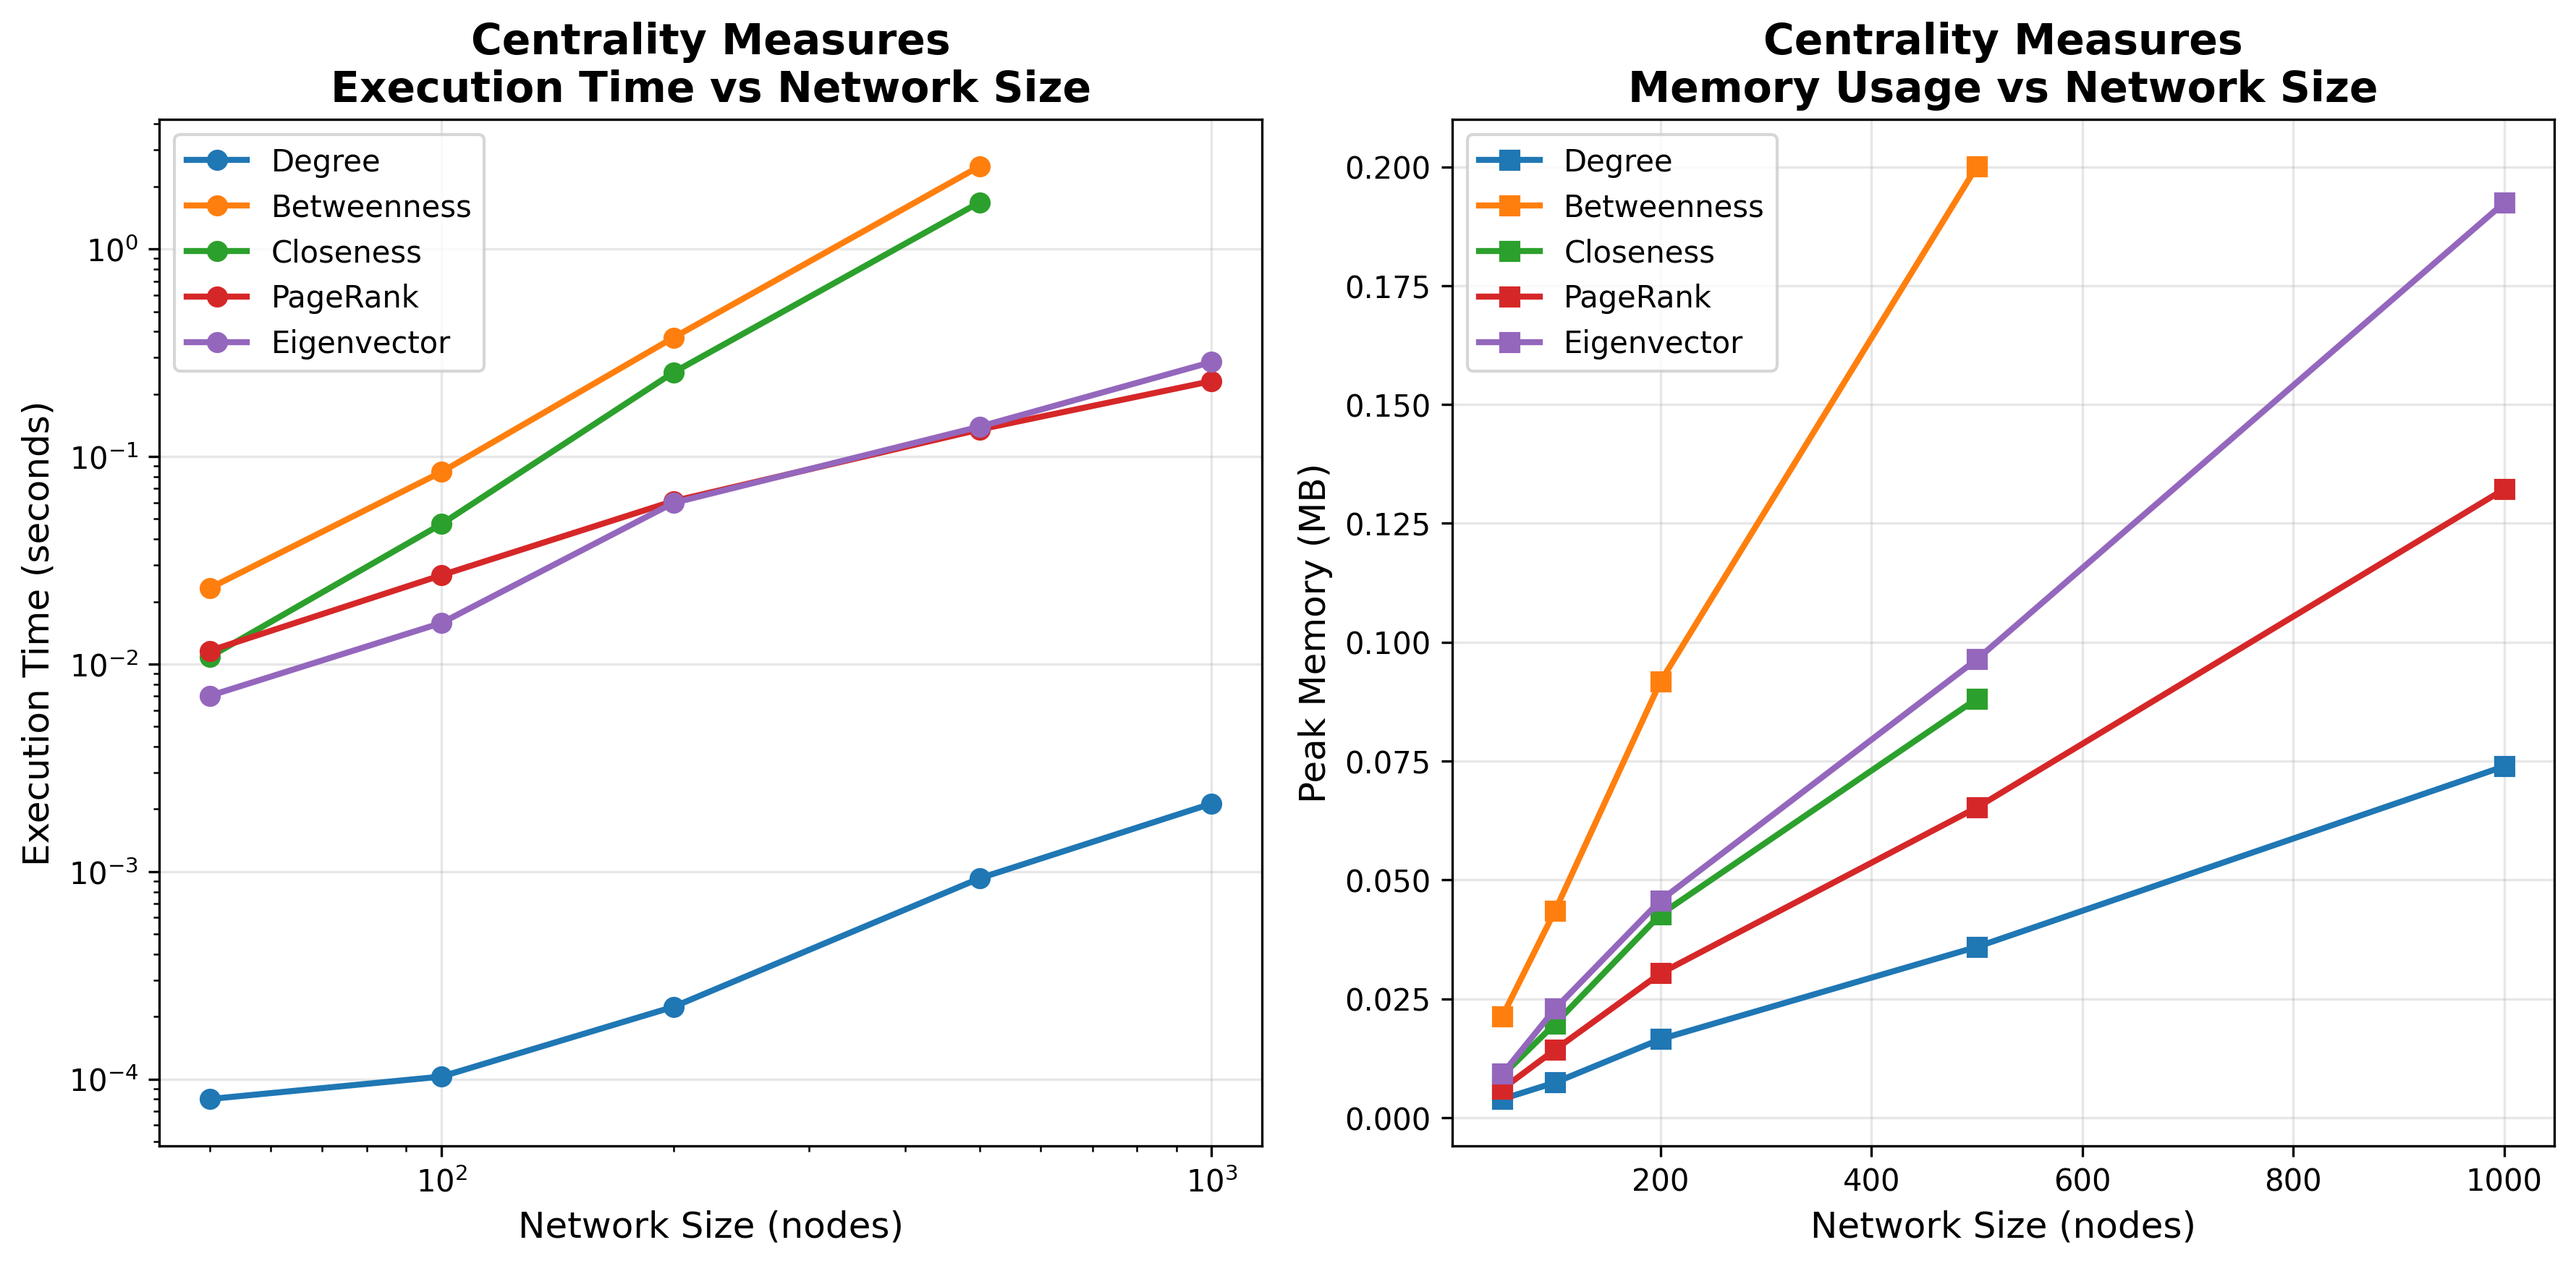
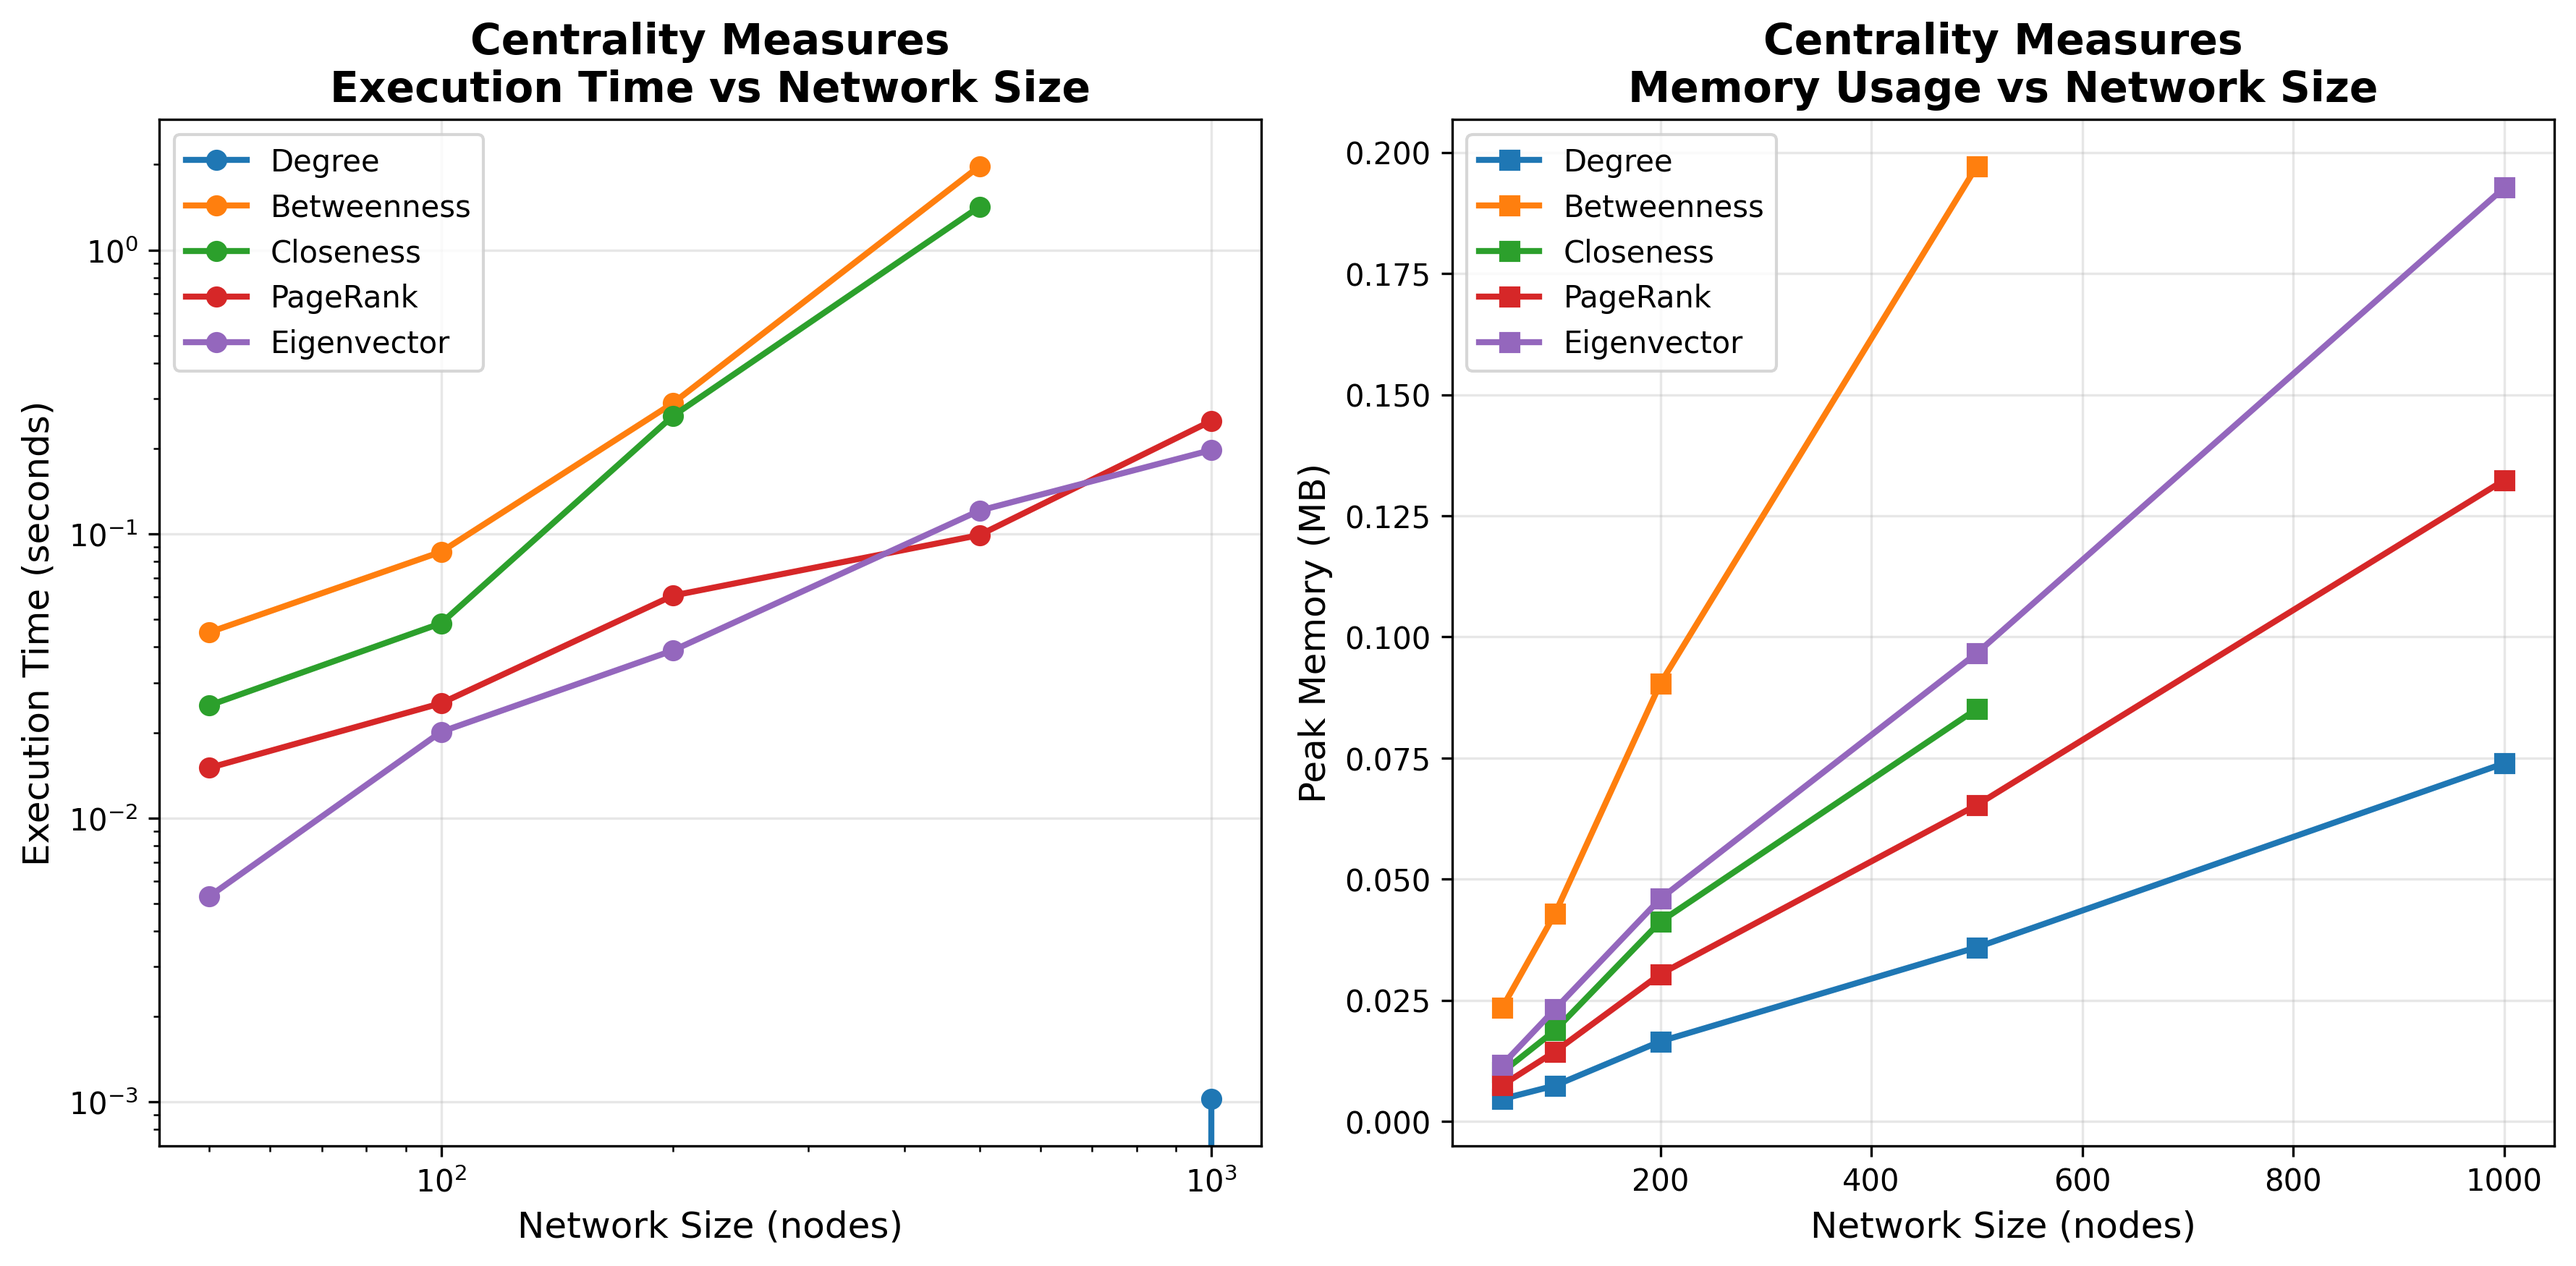
:bench

diff --git a/main.py b/main.py
@@ -24,31 +24,43 @@ from graph_generator import (
     generate_social_network, 
     generate_small_world_network,
     generate_scale_free_network
-)
+)#havish
+
+
 from traversal import (
     bfs, dfs,
     find_connected_components_bfs,
     find_connected_components_dfs,
     shortest_path_bfs,
     is_connected
-)
+)#sashank
+
+
 from union_find import (
     find_connected_components_union_find,
     detect_cycle_union_find
-)
+)#anish
+
+
 from centrality import (
     compute_all_centralities,
     get_top_k_central_nodes
-)
+)#havish
+
 from community_detection import (
     detect_communities,
     modularity
-)
+)#anish
+
+
 from recommender import (
     recommend_friends,
     friends_of_friends,
     evaluate_recommendations
-)
+)#abhinav 
+
+
+
 from visualization import (
     visualize_graph,
     visualize_communities,

diff --git a/union_find.py b/union_find.py
@@ -204,6 +204,8 @@ def find_connected_components_union_find(graph: Graph) -> List[List[Any]]:
     
     Time Complexity: O(E * α(V)) where E is edges, V is vertices, α is inverse Ackermann
     Space Complexity: O(V)
+
+    use union-find to group nodes into connected components by processing all edges.
     """
     uf = UnionFind()
     
@@ -241,6 +243,9 @@ def detect_cycle_union_find(graph: Graph) -> bool:
     
     Time Complexity: O(E * α(V)) where E is edges, V is vertices
     Space Complexity: O(V)
+
+    iterate the edges of the graph and use union-find to detect cycles.
+    if two nodes of an edge are already connected, a cycle is detected.
     """
     uf = UnionFind()
     

diff --git a/benchmark.py b/benchmark.py
@@ -1,4 +1,4 @@
-"""
+    """
 Comprehensive Benchmarking Suite with Scalability Analysis
 ===========================================================
 Tests all algorithms across multiple network sizes and generates performance plots.
